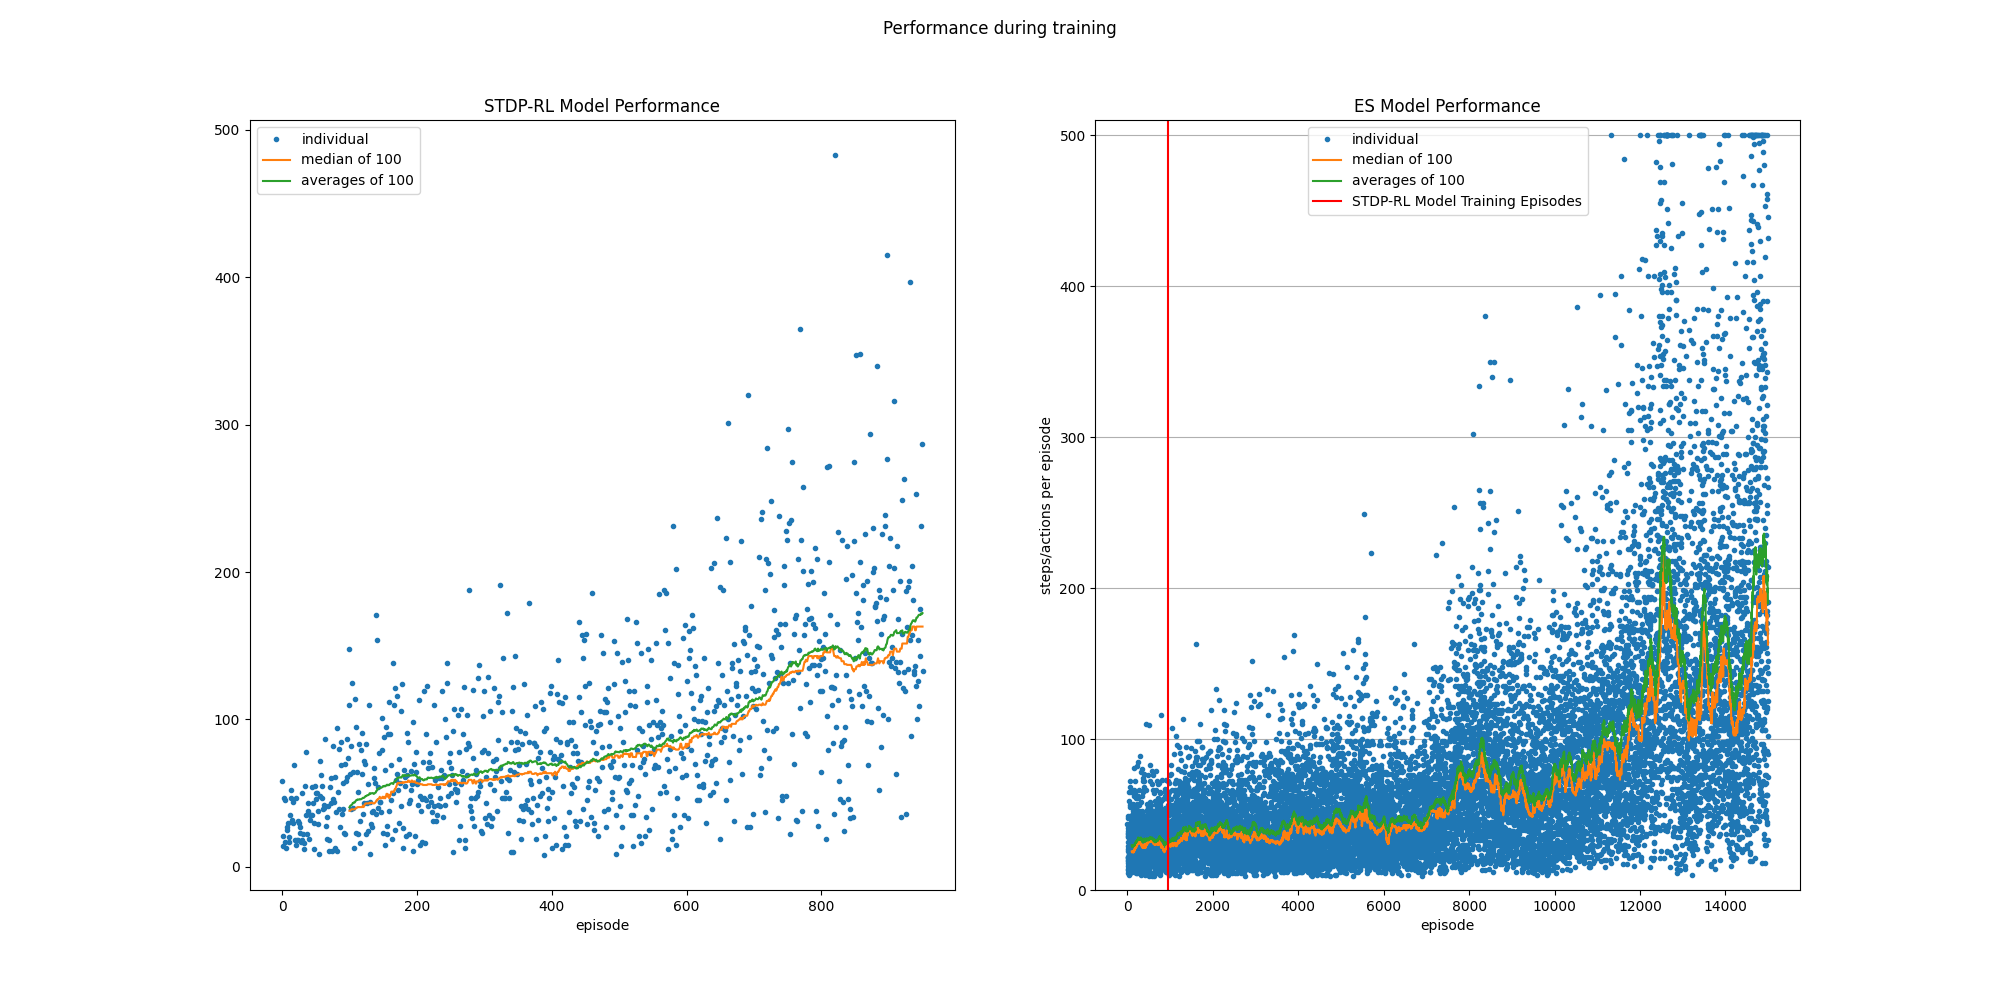
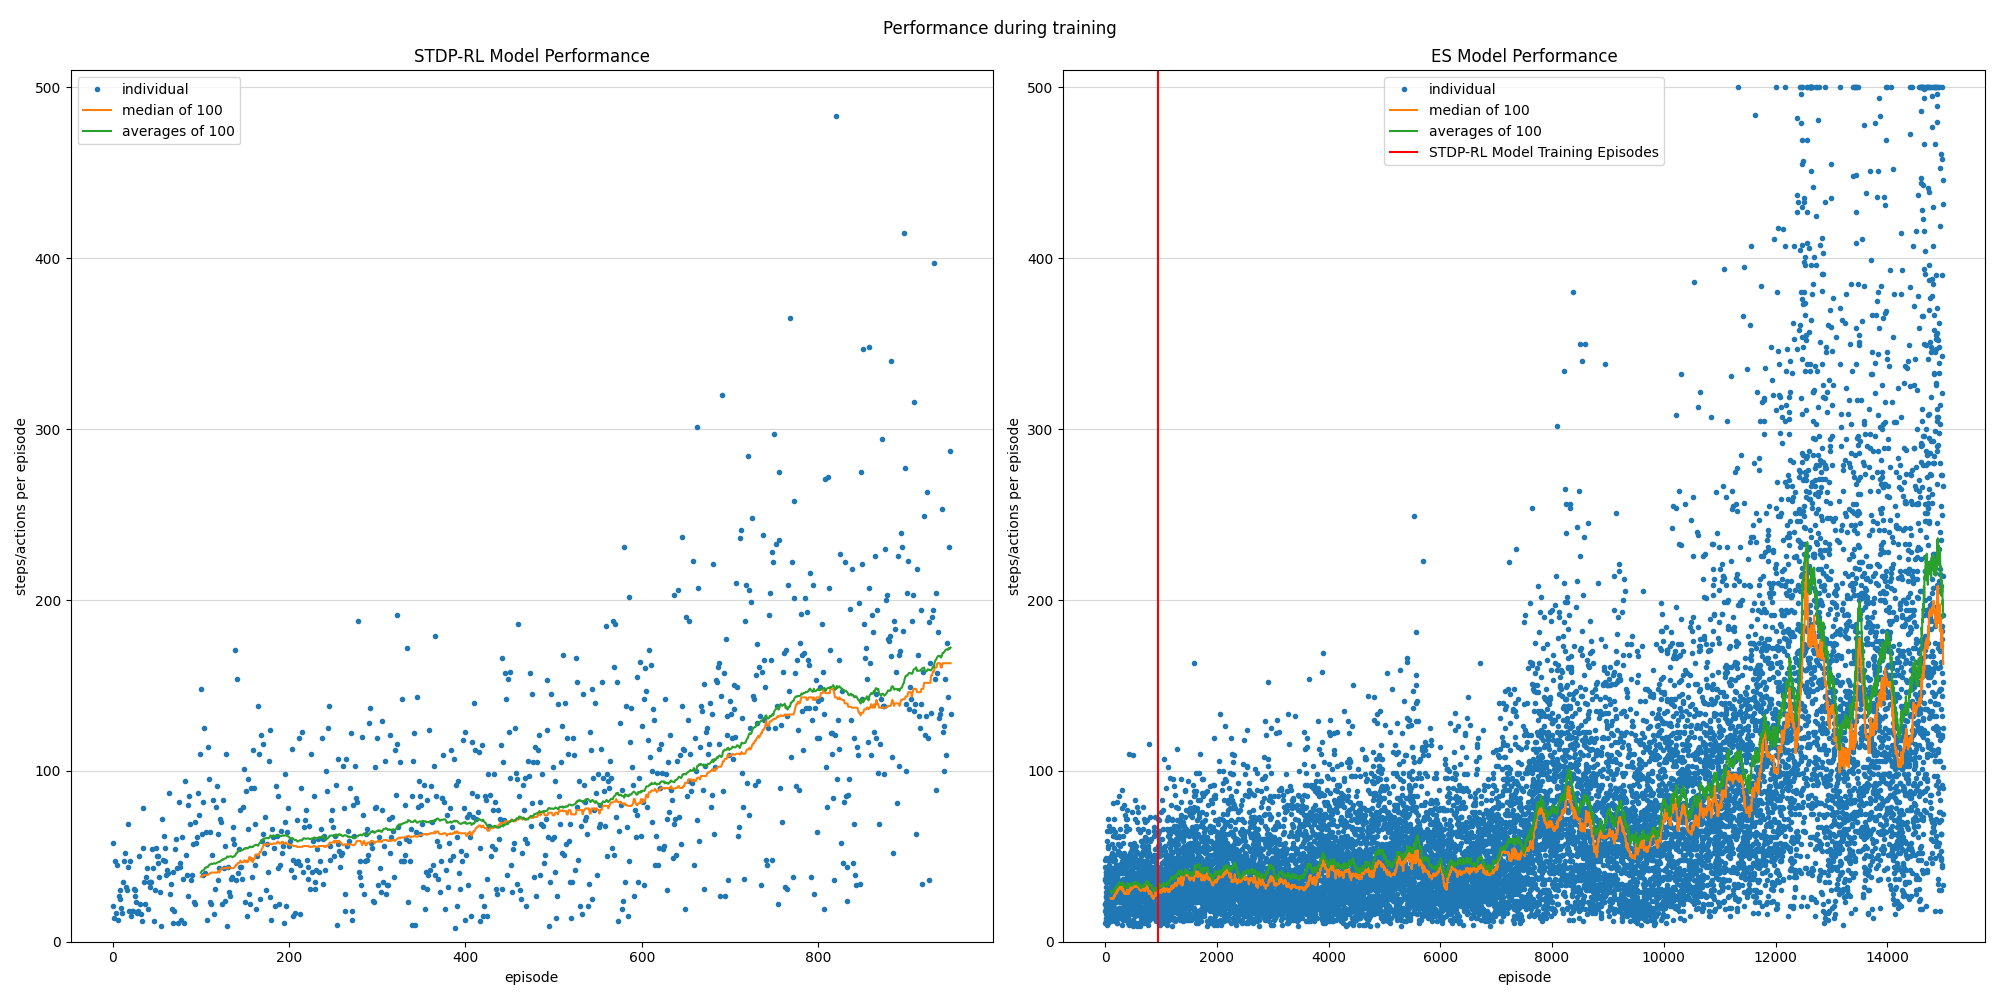
Add undecided moves graph

diff --git a/neurosim/tools/eval_multimodel.py b/neurosim/tools/eval_multimodel.py
@@ -162,6 +162,16 @@ def _get_agg(tr_results, step, func, overlap=True):
     tr_agg.append(func(tr_results[idx:idx+step]))
   return tr_agg
 
+def _get_avg_fast(tr_results, step):
+  tr_agg = []
+  current_sum = sum(tr_results[:step])
+  current_avg_by = step
+  tr_agg.append(current_sum / current_avg_by)
+  for idx in range(1, len(tr_results) - step):
+    current_sum += tr_results[idx+step-1] - tr_results[idx-1]
+    tr_agg.append(current_sum / current_avg_by)
+  return tr_agg
+
 def steps_per_eps(wdir, wdir_name, outdir, merge_es=False, steps=[100]):
   outputfile = os.path.join(
     outdir,
@@ -199,7 +209,7 @@ def steps_per_eps(wdir, wdir_name, outdir, merge_es=False, steps=[100]):
 
     plt.legend(['iteration max', 'iteration average', 'iteration min'] +
       ['median of {} iteration averages'.format(step) for step in tr_medians.keys()] +
-      ['averages of {} iteration averages'.format(step) for step in tr_medians.keys()])
+      ['averages of {} iteration averages'.format(step) for step in tr_averages.keys()])
     plt.xlabel('iteration ({} episodes)'.format(STEP))
 
     plt.savefig(outputfile)
@@ -218,7 +228,7 @@ def steps_per_eps(wdir, wdir_name, outdir, merge_es=False, steps=[100]):
 
   plt.legend(['individual'] +
     ['median of {}'.format(STEP) for STEP in tr_medians.keys()] +
-    ['averages of {}'.format(STEP) for STEP in tr_medians.keys()])
+    ['averages of {}'.format(STEP) for STEP in tr_averages.keys()])
   plt.xlabel('episode')
 
   plt.savefig(outputfile)
@@ -233,9 +243,6 @@ def steps_per_eps_combined(wdirs, outdir, steps=[100]):
   wdirs = [wdir.split(':') for wdir in wdirs]
 
   fig, axs = plt.subplots(ncols=2, nrows=1, figsize=(20,10))
-  plt.ylim(0, 510)
-  plt.grid(axis='y')
-  plt.ylabel('steps/actions per episode')
   plt.suptitle('Performance during training')
 
   all_train_steps = []
@@ -260,7 +267,7 @@ def steps_per_eps_combined(wdirs, outdir, steps=[100]):
 
     curr_legend = ['individual'] + \
       ['median of {}'.format(STEP) for STEP in tr_medians.keys()] + \
-      ['averages of {}'.format(STEP) for STEP in tr_medians.keys()]
+      ['averages of {}'.format(STEP) for STEP in tr_averages.keys()]
 
     for idx in range(len(wdirs)):
       if idx != widx:
@@ -270,8 +277,66 @@ def steps_per_eps_combined(wdirs, outdir, steps=[100]):
 
     ax.legend(curr_legend)
     ax.set_xlabel('episode')
+    ax.set_ylabel('steps/actions per episode')
+    ax.set_ylim(0, 510)
+    ax.grid(axis='y', alpha=0.5)
     ax.set_title('{} Performance'.format(wdir_name.replace('Trained ', '')))
 
+  plt.tight_layout()
+  plt.savefig(outputfile)
+
+
+def undecided_moves(wdirs, outdir, steps=[100, 1000]):
+  outputfile = os.path.join(
+    outdir, 'undecided_moves_during_training.png')
+
+  if type(wdirs) == str:
+    wdirs = wdirs.split(',')
+  wdirs = [wdir.split(':') for wdir in wdirs]
+
+  fig, axs = plt.subplots(ncols=2, nrows=1, figsize=(20,10))
+  plt.suptitle('Undecided moves percentages during training')
+
+  def _len_moves(idx):
+    return len(all_unk_moves[idx][steps[0]]) + steps[0]
+
+  all_unk_moves = []
+  for _, wdir, _ in wdirs:
+    val_moves = []
+    for wdir_step, _ in zip(*_extract_hpsteps(wdir)):
+        with open(os.path.join(wdir_step, 'MotorOutputs.txt')) as f:
+          for toks in csv.reader(f, delimiter='\t'):
+            _, l, r = [int(float(tok)) for tok in toks]
+            val_moves.append(1 if l == r else 0)
+    tr_agg = {STEP: _get_avg_fast(val_moves, STEP) for STEP in steps}
+    all_unk_moves.append(tr_agg)
+
+  all_vals = [v for vals in all_unk_moves for vs in vals.values() for v in vs]
+  miny, maxy = np.amin(all_vals), np.amax(all_vals)
+
+  for widx, ax, (wdir_name, wdir, _), tr_agg in zip(range(len(wdirs)), axs, wdirs, all_unk_moves):
+    for STEP, averages in tr_agg.items():
+        ax.plot([t + STEP for t in range(len(averages))], averages)
+
+    curr_legend = ['averages of {}'.format(STEP) for STEP in tr_agg.keys()]
+
+    lw = _len_moves(widx)
+    for idx in range(len(wdirs)):
+      if idx != widx:
+        lidx = _len_moves(idx)
+        if lidx < lw:
+          ax.axvline(x=lidx, c='r')
+          curr_legend.append('{} total moves'.format(
+            wdirs[idx][0].replace('Trained ', '')))
+
+    ax.legend(curr_legend)
+    ax.set_ylim(miny, maxy)
+    ax.set_xlabel('moves')
+    ax.set_ylabel('percentage of undecided moves')
+    ax.set_title('{} Undecided moves'.format(wdir_name.replace('Trained ', '')))
+    ax.grid(axis='y')
+
+  plt.tight_layout()
   plt.savefig(outputfile)
 
 def select_episodes(wdirs, cnt=7):
@@ -374,6 +439,7 @@ if __name__ == '__main__':
       'spk-freq': spiking_frequencies_table,
       'train-perf': steps_per_eps,
       'train-perf-comb': steps_per_eps_combined,
+      'train-unk-moves': undecided_moves,
       'select-eps': select_episodes,
       'eval-selected-eps': save_episodes_eval
   })

diff --git a/README.md b/README.md
@@ -182,7 +182,7 @@ Change `hpsearch_config.json` to the needed params
     py neurosim/hpsearch.py sample $WDIR
     
     # run 100 samples
-    for ((i=0;i<200;i+=1)); do
+    for ((i=0;i<100;i+=1)); do
         echo "Sampling $i th run"
         time py neurosim/hpsearch.py sample $WDIR
     done
@@ -234,6 +234,8 @@ Use this on the latest step of the model
     py neurosim/tools/eval_multimodel.py train-perf $BES_WDIR --wdir-name "ES Model" --outdir=$OUTDIR
     py neurosim/tools/eval_multimodel.py train-perf $BES_WDIR --wdir-name "ES Model" --outdir=$OUTDIR --merge-es
     py neurosim/tools/eval_multimodel.py train-perf-comb "${BSTDP_CONF},${BES_CONF}" --outdir=$OUTDIR
+
+    py neurosim/tools/eval_multimodel.py train-unk-moves "${BSTDP_CONF},${BES_CONF}" --outdir=$OUTDIR
 
     py neurosim/tools/eval_multimodel.py select-eps \
             ${BSTDP_WDIR}/evaluation_8,${BES_WDIR}/evaluation_15
